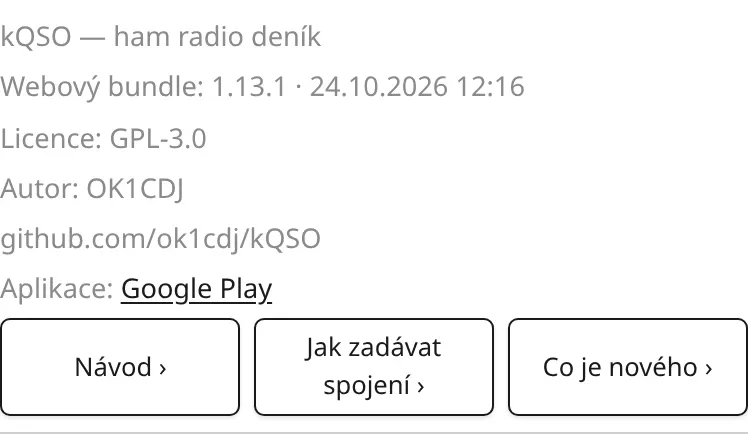
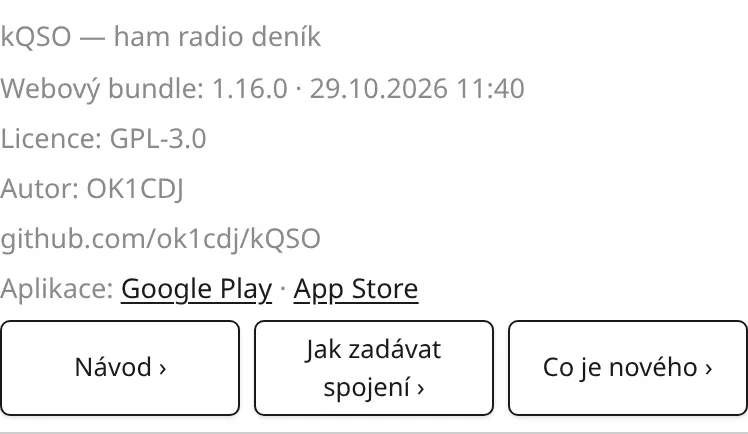
Manual: where to get kQSO on First steps; About shot with the store links

diff --git a/web/public/manual/en.html b/web/public/manual/en.html
@@ -377,7 +377,7 @@
 <figure class="crop"><img src="img/en/settings-keyboard.webp" alt="Keyboard" width="374" height="143" loading="lazy"><figcaption>Keyboard for logging.</figcaption></figure>
 <figure class="crop"><img src="img/en/settings-map.webp" alt="Map" width="374" height="208" loading="lazy"><figcaption>Map and radar.</figcaption></figure>
 <figure class="crop"><img src="img/en/settings-storage.webp" alt="Storage" width="374" height="108" loading="lazy"><figcaption>Storage.</figcaption></figure>
-<figure class="crop"><img src="img/en/settings-about.webp" alt="About" width="374" height="198" loading="lazy"><figcaption>About: manual, quick reference, what's new.</figcaption></figure>
+<figure class="crop"><img src="img/en/settings-about.webp" alt="About" width="374" height="199" loading="lazy"><figcaption>About: manual, quick reference, what's new.</figcaption></figure>
 </div>
 
 <h2 id="faq">11. Questions and problems</h2>

diff --git a/web/public/manual/start-en.html b/web/public/manual/start-en.html
@@ -11,6 +11,7 @@
 <p class="manual-lang"><a href="start-cs.html">Česky</a></p>
 <h1>kQSO — first steps</h1>
 <p class="muted">Two complete examples from creating the log to sending it off: a VHF contest and an activation (SOTA, POTA, WWFF…). The details of each step are in the <a href="en.html">manual</a>.</p>
+<p>Get kQSO for Android from <a href="https://play.google.com/store/apps/details?id=com.ok1cdj.kqso">Google Play</a>, for iPhone and iPad from the <a href="https://apps.apple.com/app/kqso/id6820009297">App Store</a>, or open it in a browser at <a href="https://kqso.ok1cdj.com/">kqso.ok1cdj.com</a>.</p>
 
 <nav class="manual-toc">
 <ol>

diff --git a/web/public/manual/start-cs.html b/web/public/manual/start-cs.html
@@ -11,6 +11,7 @@
 <p class="manual-lang"><a href="start-en.html">English</a></p>
 <h1>kQSO — první kroky</h1>
 <p class="muted">Dva celé příklady od založení logu po odeslání: VKV závod a aktivace (SOTA, POTA, WWFF…). Podrobnosti ke každému kroku jsou v <a href="cs.html">návodu</a>.</p>
+<p>kQSO stáhneš pro Android z <a href="https://play.google.com/store/apps/details?id=com.ok1cdj.kqso">Google Play</a>, pro iPhone a iPad z <a href="https://apps.apple.com/app/kqso/id6820009297">App Store</a>, nebo ho otevřeš v prohlížeči na <a href="https://kqso.ok1cdj.com/">kqso.ok1cdj.com</a>.</p>
 
 <nav class="manual-toc">
 <ol>
